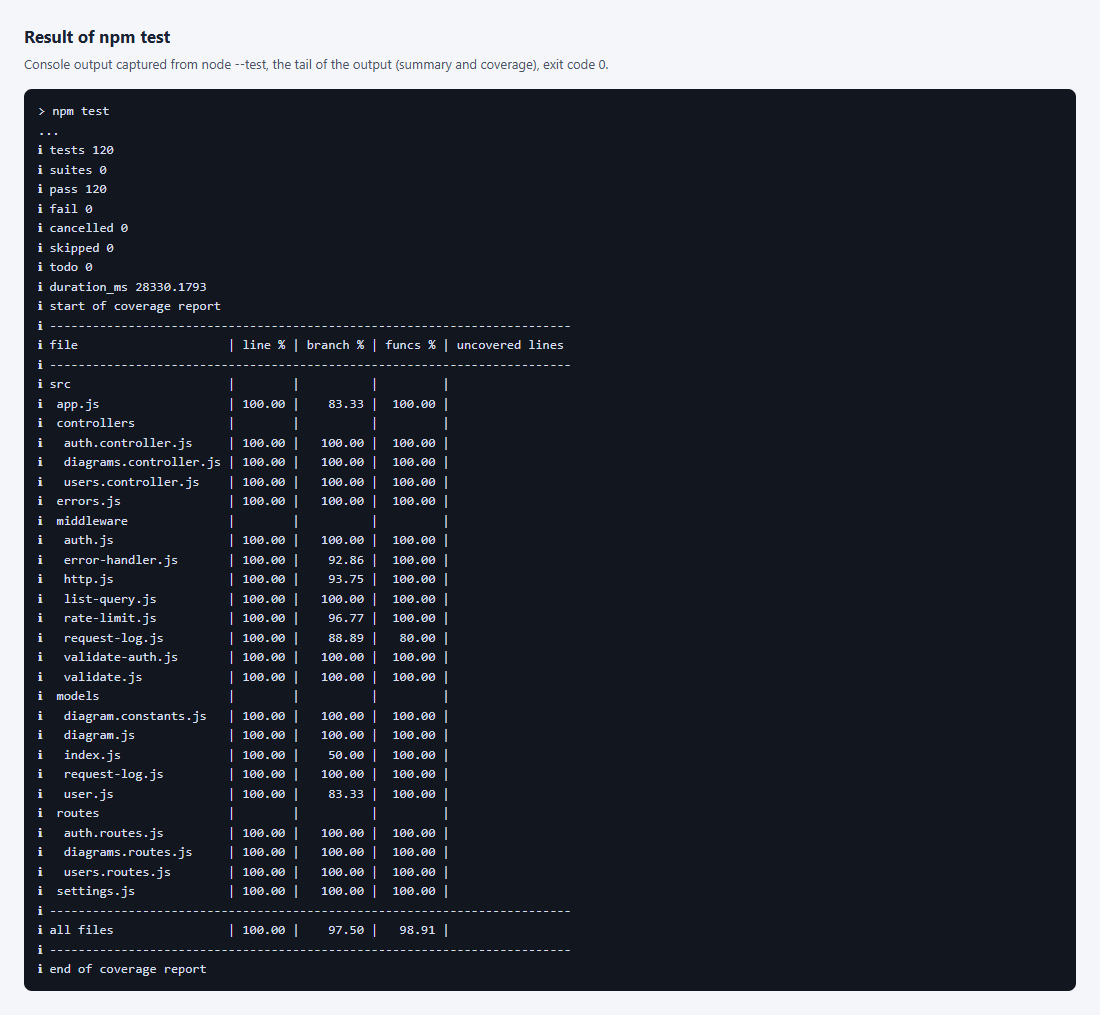
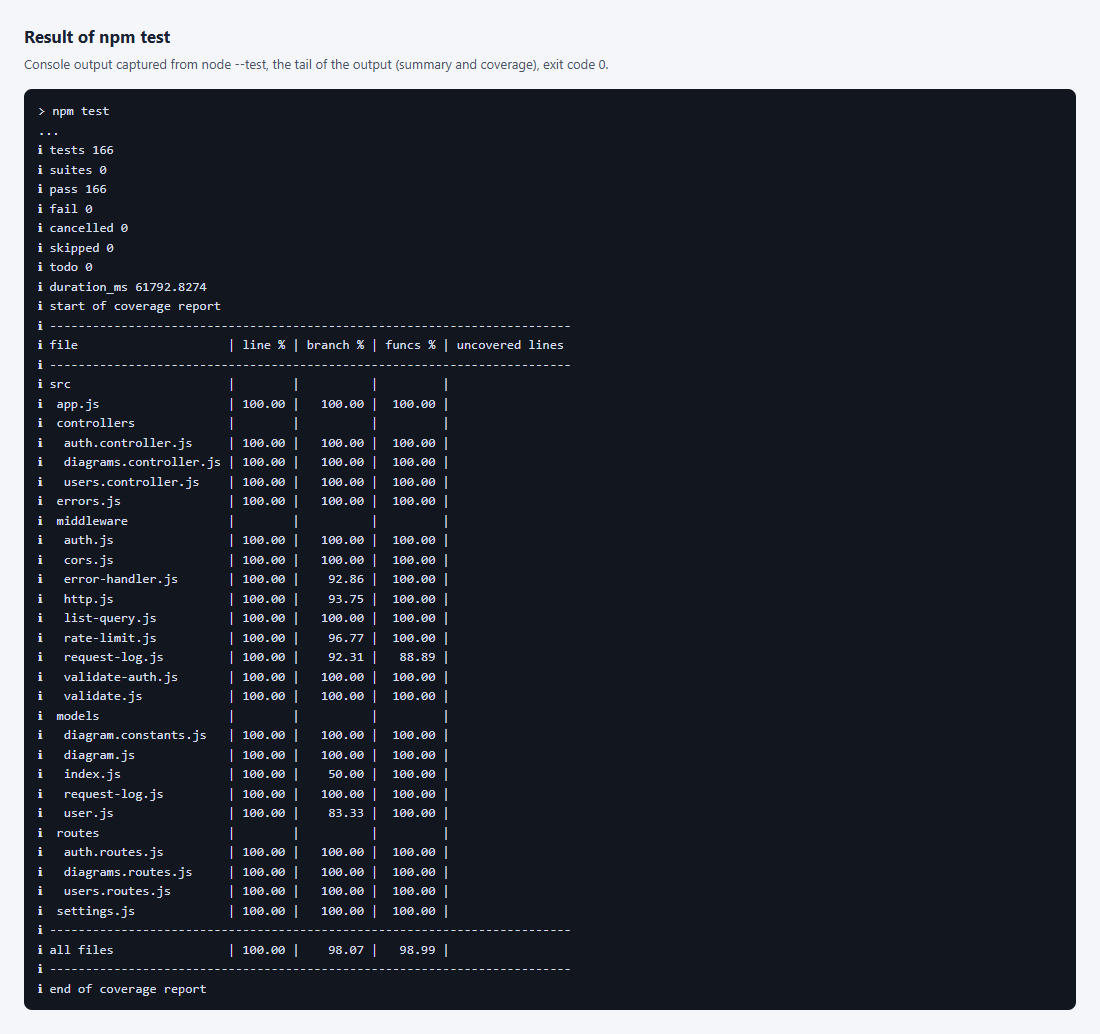
docs(lab3): the report says PostgreSQL is the default database and SQLite is only for tests; test count 164, figure 9 and reports rebuilt

Changed region(s): [[0.0309, 0.0305, 0.5564, 0.9773]]

diff --git a/part-2/lab-03-auth/report.md b/part-2/lab-03-auth/report.md
@@ -110,7 +110,7 @@
 
 ### 3.5 Проверка
 
-Работа проверена автоматическими тестами на временной базе SQLite с настоящими миграциями и настоящими HTTP-запросами. Тесты запускают сервер на свободном порту, а bcrypt использует четыре раунда для скорости. Покрыто следующее: регистрация с нормализацией email, отсутствие хеша в ответе и проверка, что в базе лежит хеш bcrypt, а не пароль, дубликаты email в любом регистре, ошибки проверки данных, вход и содержимое токена, одинаковый ответ на неверный пароль и неизвестный email, подделанные, неподписанные, просроченные и подписанные чужим ключом токены, удаление пользователя и смена роли при старом токене, права администратора, владельца и постороннего пользователя, миграции с откатом и сид администратора. Выполнено 118 тестов приложения, включая частичное обновление `PATCH` и сбой базы. Проверка на настоящем PostgreSQL пока не выполнялась.
+База данных работы по умолчанию PostgreSQL, SQLite нужен только тестам. Работа проверена автоматическими тестами на временной базе SQLite (файл во временной папке, чтобы тестам не нужен был сервер баз данных) с настоящими миграциями и настоящими HTTP-запросами. Тесты запускают сервер на свободном порту, а bcrypt использует четыре раунда для скорости. Покрыто следующее: регистрация с нормализацией email, отсутствие хеша в ответе и проверка, что в базе лежит хеш bcrypt, а не пароль, дубликаты email в любом регистре, ошибки проверки данных, вход и содержимое токена, одинаковый ответ на неверный пароль и неизвестный email, подделанные, неподписанные, просроченные и подписанные чужим ключом токены, удаление пользователя и смена роли при старом токене, права администратора, владельца и постороннего пользователя, миграции с откатом и сид администратора. Выполнено 164 теста приложения, включая частичное обновление `PATCH` и сбой базы. Проверка на настоящем PostgreSQL пока не выполнялась.
 
 Результат команды `npm test` с числом тестов и покрытием кода показан на рисунке 9.
 
@@ -140,7 +140,7 @@
 
 ### 3.9 Как вызвать ответ 500 настоящим сбоем
 
-Ответ 500 вызывается сбоем базы, а не кнопкой. Для SQLite нужно запустить сервер командой `npm start`, затем во втором окне выполнить `npx sequelize-cli db:migrate:undo:all`. Таблицы исчезают под работающим сервером, и первый же запрос не может записать строку в журнал `RequestLogs`. Клиент получает 500 с телом `{ "error": "Internal server error" }`, а подробности остаются только в консоли сервера. Для PostgreSQL достаточно остановить службу базы или контейнер: запросы дают 500, а `GET /health` отвечает 503. Работу восстанавливают команды `npm run db:migrate` и `npm run db:seed`. В автоматическом тесте тот же сбой воспроизведён удалением таблицы `Diagrams` при работающем сервере.
+Ответ 500 вызывается сбоем базы, а не кнопкой. Самый короткий путь – временная база SQLite для проверки: задать `SQLITE_STORAGE` вместо `DATABASE_URL`, запустить сервер командой `npm start`, затем во втором окне выполнить `npx sequelize-cli db:migrate:undo:all`. Таблицы исчезают под работающим сервером, и первый же запрос не может записать строку в журнал `RequestLogs`. Клиент получает 500 с телом `{ "error": "Internal server error" }`, а подробности остаются только в консоли сервера. На основной базе PostgreSQL достаточно остановить службу или контейнер (`docker compose stop db`): запросы дают 500, а `GET /health` отвечает 503. Работу восстанавливают команды `npm run db:migrate` и `npm run db:seed`. В автоматическом тесте тот же сбой воспроизведён удалением таблицы `Diagrams` при работающем сервере.
 
 Миграции откатаны командой `npx sequelize-cli db:migrate:undo:all` под работающим сервером, и первый же запрос `http://localhost:3000/diagrams` получает ответ 500, как на рисунке 11.
 

diff --git a/part-2/lab-03-auth/report.tpl.md b/part-2/lab-03-auth/report.tpl.md
@@ -110,7 +110,7 @@
 
 ### 3.5 Проверка
 
-Работа проверена автоматическими тестами на временной базе SQLite с настоящими миграциями и настоящими HTTP-запросами. Тесты запускают сервер на свободном порту, а bcrypt использует четыре раунда для скорости. Покрыто следующее: регистрация с нормализацией email, отсутствие хеша в ответе и проверка, что в базе лежит хеш bcrypt, а не пароль, дубликаты email в любом регистре, ошибки проверки данных, вход и содержимое токена, одинаковый ответ на неверный пароль и неизвестный email, подделанные, неподписанные, просроченные и подписанные чужим ключом токены, удаление пользователя и смена роли при старом токене, права администратора, владельца и постороннего пользователя, миграции с откатом и сид администратора. Выполнено 118 тестов приложения, включая частичное обновление `PATCH` и сбой базы. Проверка на настоящем PostgreSQL пока не выполнялась.
+База данных работы по умолчанию PostgreSQL, SQLite нужен только тестам. Работа проверена автоматическими тестами на временной базе SQLite (файл во временной папке, чтобы тестам не нужен был сервер баз данных) с настоящими миграциями и настоящими HTTP-запросами. Тесты запускают сервер на свободном порту, а bcrypt использует четыре раунда для скорости. Покрыто следующее: регистрация с нормализацией email, отсутствие хеша в ответе и проверка, что в базе лежит хеш bcrypt, а не пароль, дубликаты email в любом регистре, ошибки проверки данных, вход и содержимое токена, одинаковый ответ на неверный пароль и неизвестный email, подделанные, неподписанные, просроченные и подписанные чужим ключом токены, удаление пользователя и смена роли при старом токене, права администратора, владельца и постороннего пользователя, миграции с откатом и сид администратора. Выполнено 164 теста приложения, включая частичное обновление `PATCH` и сбой базы. Проверка на настоящем PostgreSQL пока не выполнялась.
 
 Результат команды `npm test` с числом тестов и покрытием кода показан на рисунке 9.
 
@@ -140,7 +140,7 @@
 
 ### 3.9 Как вызвать ответ 500 настоящим сбоем
 
-Ответ 500 вызывается сбоем базы, а не кнопкой. Для SQLite нужно запустить сервер командой `npm start`, затем во втором окне выполнить `npx sequelize-cli db:migrate:undo:all`. Таблицы исчезают под работающим сервером, и первый же запрос не может записать строку в журнал `RequestLogs`. Клиент получает 500 с телом `{ "error": "Internal server error" }`, а подробности остаются только в консоли сервера. Для PostgreSQL достаточно остановить службу базы или контейнер: запросы дают 500, а `GET /health` отвечает 503. Работу восстанавливают команды `npm run db:migrate` и `npm run db:seed`. В автоматическом тесте тот же сбой воспроизведён удалением таблицы `Diagrams` при работающем сервере.
+Ответ 500 вызывается сбоем базы, а не кнопкой. Самый короткий путь – временная база SQLite для проверки: задать `SQLITE_STORAGE` вместо `DATABASE_URL`, запустить сервер командой `npm start`, затем во втором окне выполнить `npx sequelize-cli db:migrate:undo:all`. Таблицы исчезают под работающим сервером, и первый же запрос не может записать строку в журнал `RequestLogs`. Клиент получает 500 с телом `{ "error": "Internal server error" }`, а подробности остаются только в консоли сервера. На основной базе PostgreSQL достаточно остановить службу или контейнер (`docker compose stop db`): запросы дают 500, а `GET /health` отвечает 503. Работу восстанавливают команды `npm run db:migrate` и `npm run db:seed`. В автоматическом тесте тот же сбой воспроизведён удалением таблицы `Diagrams` при работающем сервере.
 
 Миграции откатаны командой `npx sequelize-cli db:migrate:undo:all` под работающим сервером, и первый же запрос `http://localhost:3000/diagrams` получает ответ 500, как на рисунке 11.
 

diff --git a/part-2/lab-03-auth/report.en.md b/part-2/lab-03-auth/report.en.md
@@ -110,7 +110,7 @@ Figure 8 – Answers 403 for an outsider and the answer 200 for the administrato
 
 ### 3.5 Verification
 
-The work is verified by automated tests on a temporary SQLite database with the real migrations and real HTTP requests. The tests start the server on a free port, and bcrypt uses four rounds for speed. They cover: registration with email normalization, no hash in the response and a check that the database holds a bcrypt hash rather than the password, duplicate emails in any letter case, data validation errors, login and the token contents, the same response for a wrong password and an unknown email, tampered, unsigned, expired and foreign-signed tokens, user deletion and a role change with an old token, the rights of an administrator, an owner and an outsider, migrations with rollback and the admin seed. There are 118 application tests, including the partial update with `PATCH` and a database failure. A run on a real PostgreSQL has not been done yet.
+The default database of the work is PostgreSQL, and SQLite is used only by the tests. The work is verified by automated tests on a temporary SQLite database (a file in a temporary folder, so the tests need no database server) with the real migrations and real HTTP requests. The tests start the server on a free port, and bcrypt uses four rounds for speed. They cover: registration with email normalization, no hash in the response and a check that the database holds a bcrypt hash rather than the password, duplicate emails in any letter case, data validation errors, login and the token contents, the same response for a wrong password and an unknown email, tampered, unsigned, expired and foreign-signed tokens, user deletion and a role change with an old token, the rights of an administrator, an owner and an outsider, migrations with rollback and the admin seed. There are 164 application tests, including the partial update with `PATCH` and a database failure. A run on a real PostgreSQL has not been done yet.
 
 The result of the `npm test` command with the number of tests and the code coverage is shown in figure 9.
 
@@ -140,7 +140,7 @@ The `PATCH /diagrams/:id` route changes only the fields that are sent. The check
 
 ### 3.9 How to trigger a 500 response with a real failure
 
-A 500 response is caused by a database failure, not by a button. For SQLite, start the server with `npm start`, then run `npx sequelize-cli db:migrate:undo:all` in a second window. The tables vanish under the running server, and the very first request cannot write a row to the `RequestLogs` log. The client gets 500 with the body `{ "error": "Internal server error" }`, and the details stay only in the server console. For PostgreSQL it is enough to stop the database service or container: requests give 500, and `GET /health` answers 503. The commands `npm run db:migrate` and `npm run db:seed` restore the work. The same failure is reproduced in an automated test by dropping the `Diagrams` table while the server runs.
+A 500 response is caused by a database failure, not by a button. The shortest way is a temporary SQLite database: set `SQLITE_STORAGE` instead of `DATABASE_URL`, start the server with `npm start`, then run `npx sequelize-cli db:migrate:undo:all` in a second window. The tables vanish under the running server, and the very first request cannot write a row to the `RequestLogs` log. The client gets 500 with the body `{ "error": "Internal server error" }`, and the details stay only in the server console. On the main PostgreSQL database it is enough to stop the service or container (`docker compose stop db`): requests give 500, and `GET /health` answers 503. The commands `npm run db:migrate` and `npm run db:seed` restore the work. The same failure is reproduced in an automated test by dropping the `Diagrams` table while the server runs.
 
 The migrations are undone with `npx sequelize-cli db:migrate:undo:all` under the running server, and the very first request to `http://localhost:3000/diagrams` gets the answer 500, as in figure 11.
 

diff --git a/part-2/lab-03-auth/report.en.tpl.md b/part-2/lab-03-auth/report.en.tpl.md
@@ -110,7 +110,7 @@ Figure 8 – Answers 403 for an outsider and the answer 200 for the administrato
 
 ### 3.5 Verification
 
-The work is verified by automated tests on a temporary SQLite database with the real migrations and real HTTP requests. The tests start the server on a free port, and bcrypt uses four rounds for speed. They cover: registration with email normalization, no hash in the response and a check that the database holds a bcrypt hash rather than the password, duplicate emails in any letter case, data validation errors, login and the token contents, the same response for a wrong password and an unknown email, tampered, unsigned, expired and foreign-signed tokens, user deletion and a role change with an old token, the rights of an administrator, an owner and an outsider, migrations with rollback and the admin seed. There are 118 application tests, including the partial update with `PATCH` and a database failure. A run on a real PostgreSQL has not been done yet.
+The default database of the work is PostgreSQL, and SQLite is used only by the tests. The work is verified by automated tests on a temporary SQLite database (a file in a temporary folder, so the tests need no database server) with the real migrations and real HTTP requests. The tests start the server on a free port, and bcrypt uses four rounds for speed. They cover: registration with email normalization, no hash in the response and a check that the database holds a bcrypt hash rather than the password, duplicate emails in any letter case, data validation errors, login and the token contents, the same response for a wrong password and an unknown email, tampered, unsigned, expired and foreign-signed tokens, user deletion and a role change with an old token, the rights of an administrator, an owner and an outsider, migrations with rollback and the admin seed. There are 164 application tests, including the partial update with `PATCH` and a database failure. A run on a real PostgreSQL has not been done yet.
 
 The result of the `npm test` command with the number of tests and the code coverage is shown in figure 9.
 
@@ -140,7 +140,7 @@ The `PATCH /diagrams/:id` route changes only the fields that are sent. The check
 
 ### 3.9 How to trigger a 500 response with a real failure
 
-A 500 response is caused by a database failure, not by a button. For SQLite, start the server with `npm start`, then run `npx sequelize-cli db:migrate:undo:all` in a second window. The tables vanish under the running server, and the very first request cannot write a row to the `RequestLogs` log. The client gets 500 with the body `{ "error": "Internal server error" }`, and the details stay only in the server console. For PostgreSQL it is enough to stop the database service or container: requests give 500, and `GET /health` answers 503. The commands `npm run db:migrate` and `npm run db:seed` restore the work. The same failure is reproduced in an automated test by dropping the `Diagrams` table while the server runs.
+A 500 response is caused by a database failure, not by a button. The shortest way is a temporary SQLite database: set `SQLITE_STORAGE` instead of `DATABASE_URL`, start the server with `npm start`, then run `npx sequelize-cli db:migrate:undo:all` in a second window. The tables vanish under the running server, and the very first request cannot write a row to the `RequestLogs` log. The client gets 500 with the body `{ "error": "Internal server error" }`, and the details stay only in the server console. On the main PostgreSQL database it is enough to stop the service or container (`docker compose stop db`): requests give 500, and `GET /health` answers 503. The commands `npm run db:migrate` and `npm run db:seed` restore the work. The same failure is reproduced in an automated test by dropping the `Diagrams` table while the server runs.
 
 The migrations are undone with `npx sequelize-cli db:migrate:undo:all` under the running server, and the very first request to `http://localhost:3000/diagrams` gets the answer 500, as in figure 11.
 
